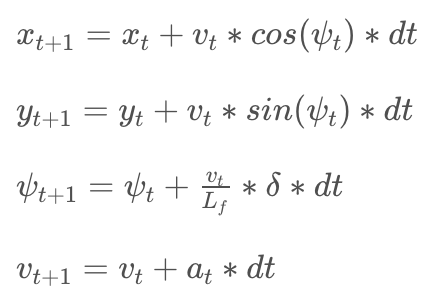
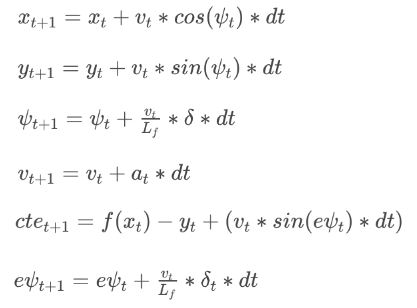
Updated MPC equations

diff --git a/README.md b/README.md
@@ -1,7 +1,5 @@
 # CarND: Model Predictive Control
 
----
-
 [//]: # (Image References)
 
 [overview]: ./images/overview.gif "Overview"
